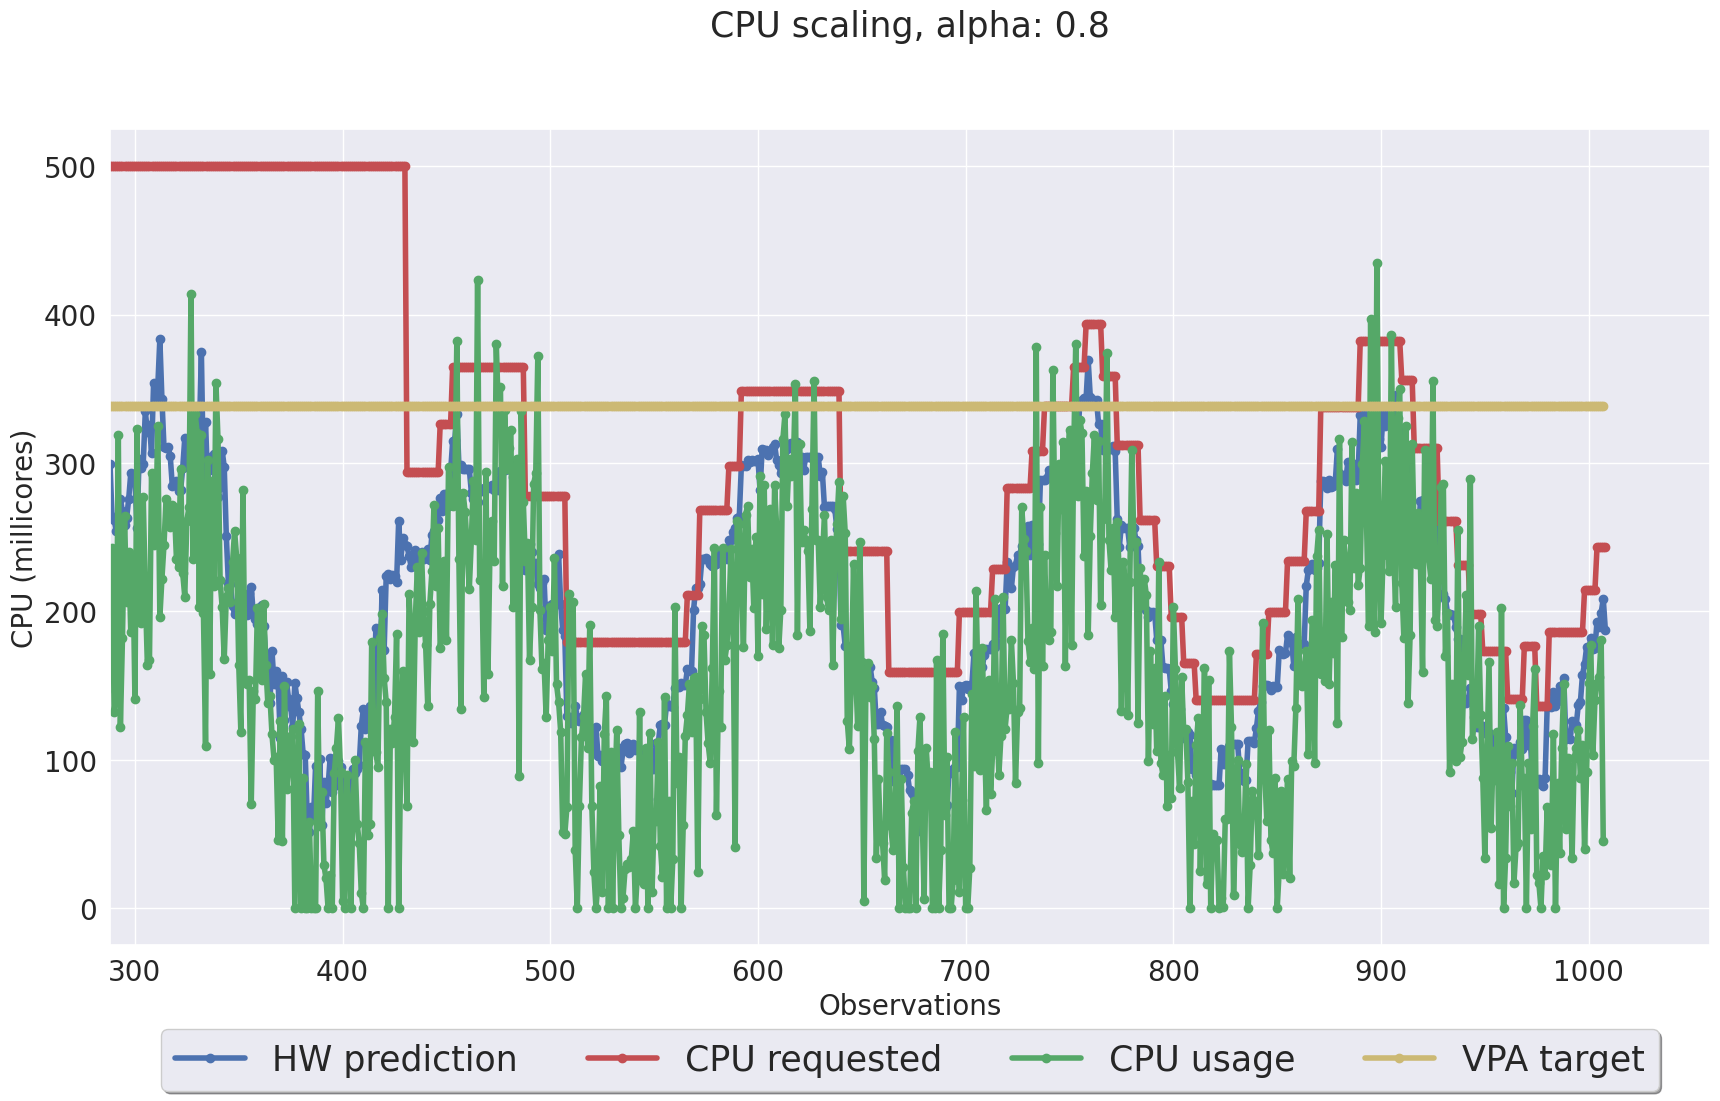
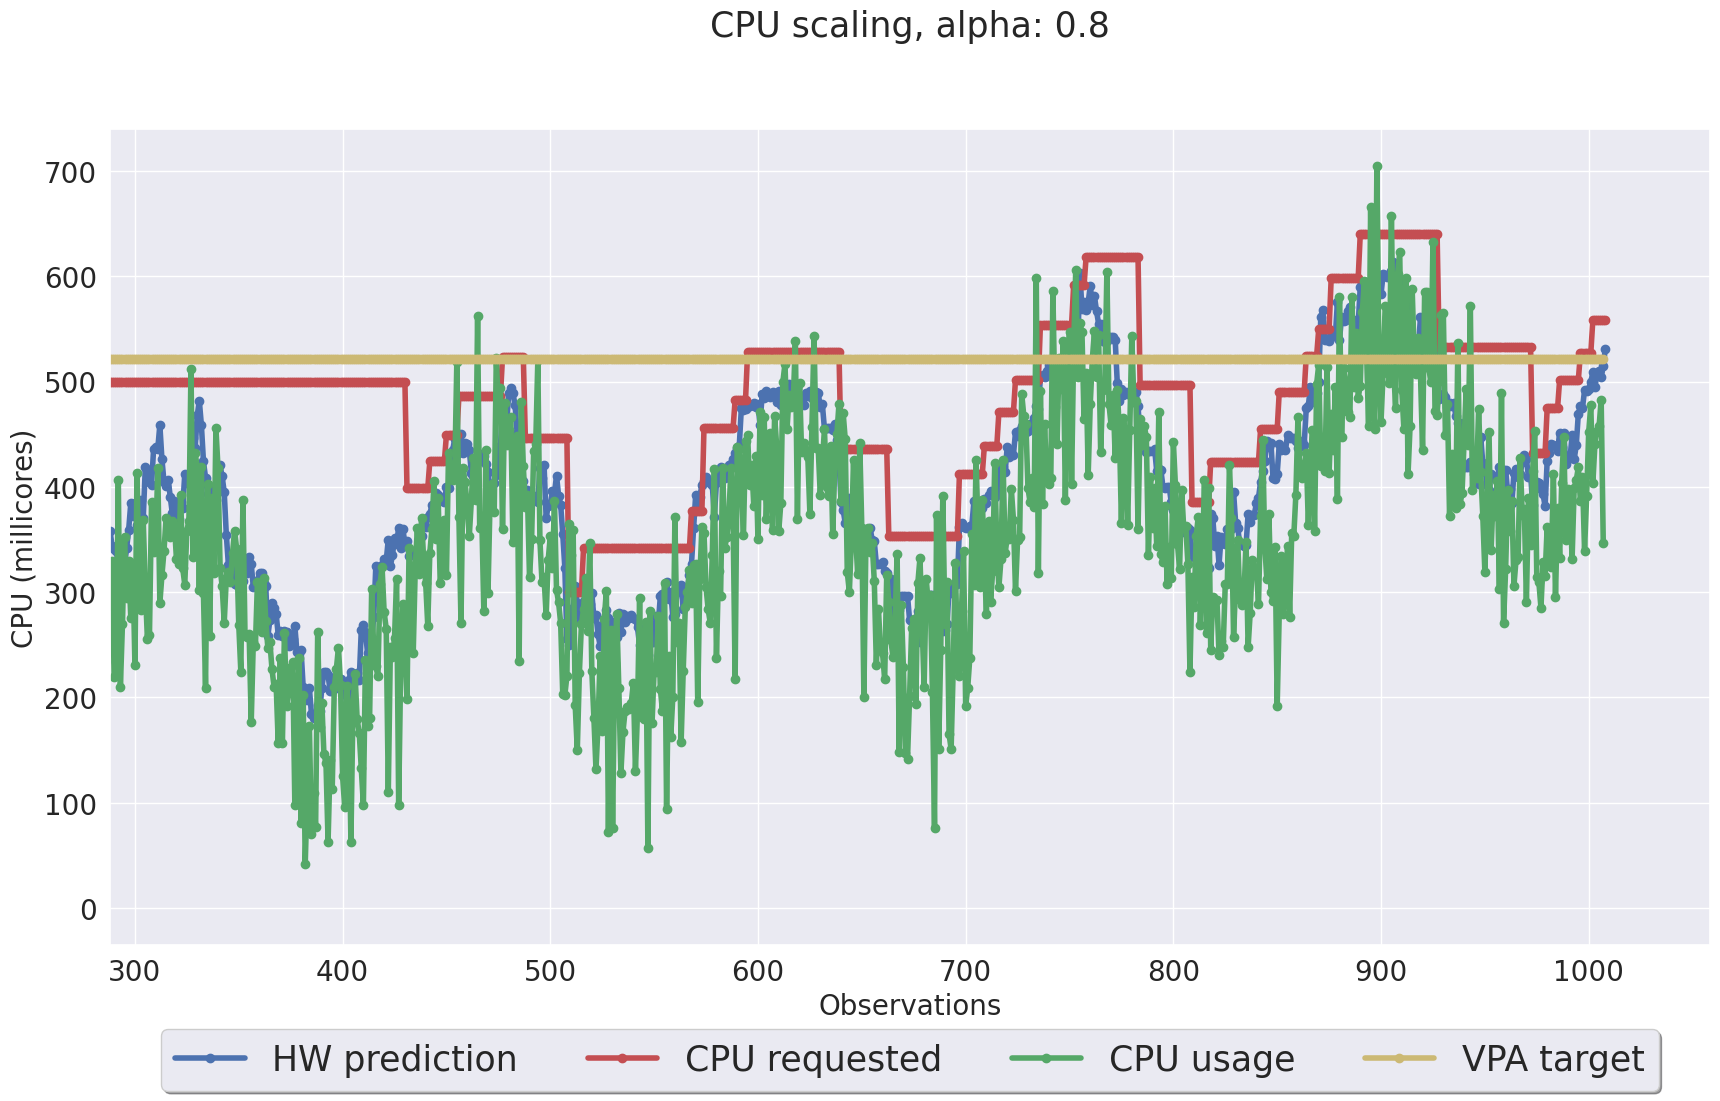
te

Changed region(s): [[0.0308, 0.1235, 0.9552, 0.8338], [0.0308, 0.6794, 0.0616, 0.7411], [0.0308, 0.247, 0.0616, 0.3088]]

diff --git a/kube/python-test/t3.py b/kube/python-test/t3.py
@@ -12,8 +12,8 @@ import math
 import argparse
 parser = argparse.ArgumentParser()
 
-parser.add_argument("-a", "--alpha", help="Noise alpha")
-
+parser.add_argument("-a", "--alpha", help="Noise alpha", default=1)
+parser.add_argument("-s", "--std", help="Standard deviation noise", default=100)
 args = parser.parse_args()
 
 import warnings
@@ -209,7 +209,7 @@ def main():
     alpha = float(args.alpha)
     series = series * alpha
     np.random.seed(0)
-    noise = np.random.normal(0,100,len(series))*(1-alpha)
+    noise = np.random.normal(0,int(args.std),len(series))*(1-alpha)
     series = [sum(x) for x in zip(noise, series)]
     series = [int(i) for i in series]
 
